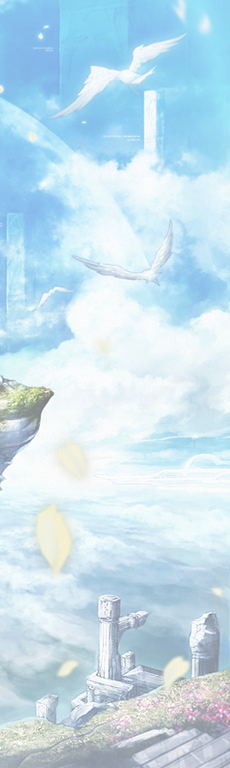
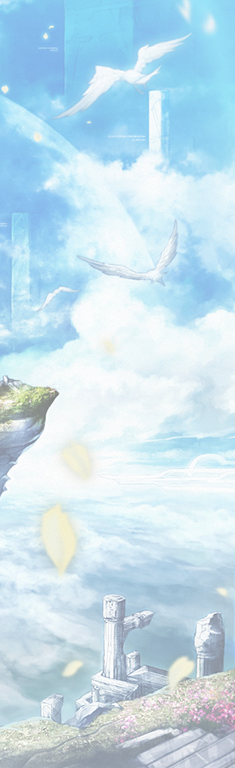
fix a bug when image is out of screen

diff --git a/khp.jsx b/khp.jsx
@@ -219,21 +219,45 @@ function exportLayerSet(layerSet){
 
 //
 function getNodeX(node){
-	return node.bounds[0].as("px") + getNodeWidth(node)/2;
+	var left = node.bounds[0].as("px");
+	if(left < 0){
+		left = 0;		
+	}
+	return left + getNodeWidth(node)/2;
 	// return node.bounds[0].as("px");
 }
 
 function getNodeY(node){
-	return originDocument.height.as("px") - node.bounds[1].as("px")  - getNodeHeight(node)/2;
+	var top = node.bounds[1].as("px");
+	if(top < 0){
+		top = 0;		
+	}
+	return originDocument.height.as("px") - top  - getNodeHeight(node)/2;
 	// return originDocument.height.as("px") - node.bounds[1].as("px");
 }
 
 function getNodeWidth(node){
-    return node.bounds[2].as("px") - node.bounds[0].as("px")
+	var left = node.bounds[0].as("px");
+	var right = node.bounds[2].as("px");
+	if(left < 0){
+		left = 0;		
+	}
+	if(right > originDocument.width.as("px")){
+		right = originDocument.width.as("px");		
+	}
+    return right - left;
 }
 
 function getNodeHeight(node){
-    return node.bounds[3].as("px") - node.bounds[1].as("px")
+	var top = node.bounds[1].as("px");
+	var bottom = node.bounds[3].as("px");
+	if(top < 0){
+		top = 0;		
+	}
+	if(bottom > originDocument.height.as("px")){
+		bottom = originDocument.height.as("px");
+	}
+    return bottom - top;
 }
 
 function removeInvisibleLayers(doc) {
